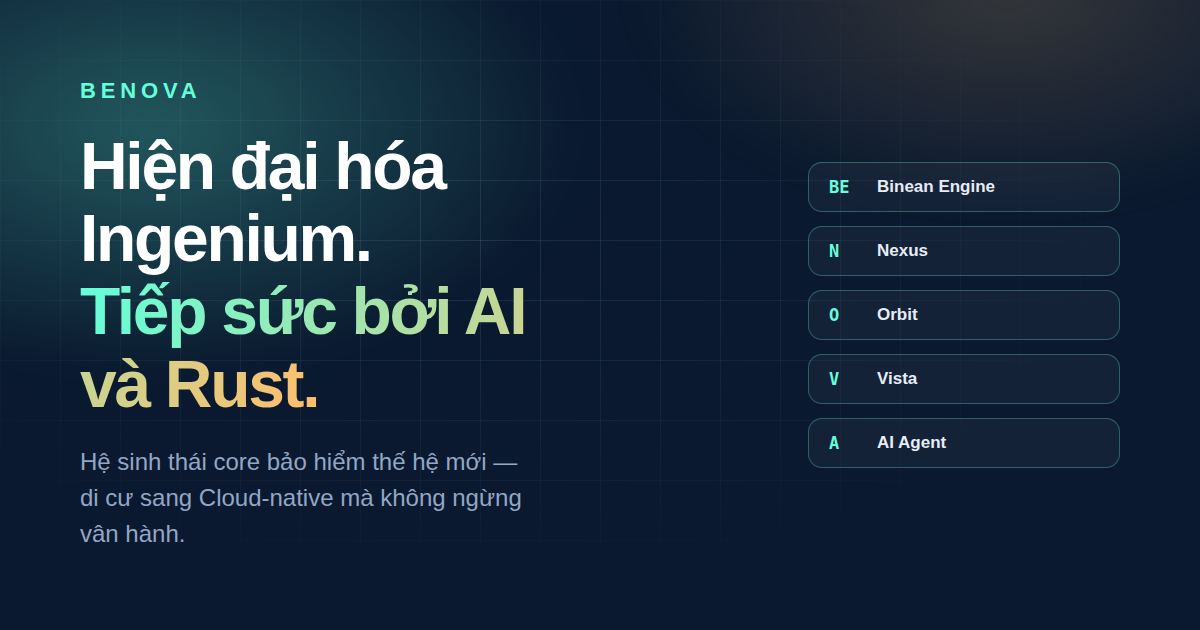
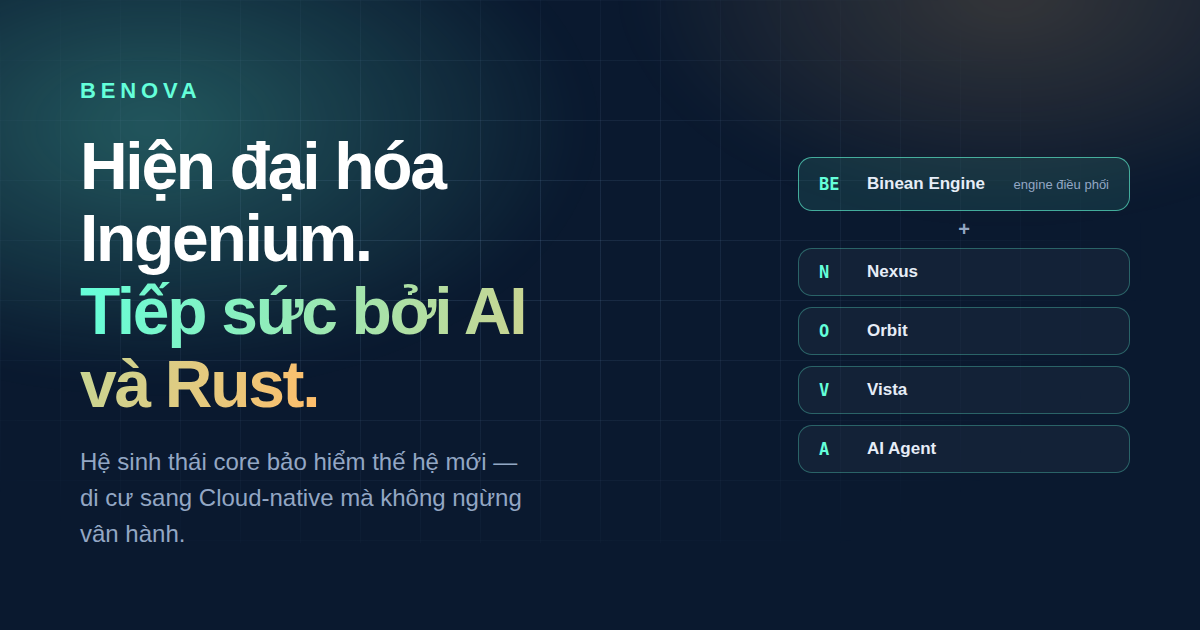
Đọc tên là BE + NOVA thay vì năm chữ ngang hàng
BE dài hai ký tự trong khi N, O, V, A mỗi cái một ký tự, nên cách đọc
"BENOVA = BE + N + O + V + A" khập khiễng. Cách chia đúng là BE + NOVA, và nó
khớp luôn với kiến trúc: Binean Engine không phải anh em với bốn sản phẩm kia
mà là bộ khung chúng chạy trên. Bố cục trang vốn đã vẽ như vậy (một thẻ lớn,
bốn thẻ nhỏ) nhưng chữ lại nói khác.

- Tiêu đề hệ sinh thái: "Năm thành phần, một nền tảng" -> "Một engine, bốn
  sản phẩm"; phần dẫn giải thích BE + NOVA.
- Hình quỹ đạo hero: BE vào lõi kèm tên Binean Engine, bốn vệ tinh N/O/V/A
  quay quanh — hình giờ đọc đúng thành BE + NOVA. Góc vệ tinh tính theo số
  lượng thật thay vì hard-code 72 độ, thêm bớt sản phẩm là tự chia lại.
- Logo header và favicon: bốn chấm thay vì năm.
- Ảnh Open Graph: BE tách riêng, nhấn mạnh, rồi tới bốn sản phẩm.
- Footer blurb viết lại theo cùng cách đọc.
- Sửa căn chữ trong lõi quỹ đạo và giãn vòng nét đứt cho thoáng.

Claude-Session: https://claude.ai/code/session_013JCiBzGJ9WGKPpS1XKVuiH

Changed region(s): [[0.6783, 0.573, 0.925, 0.754], [0.6783, 0.2413, 0.925, 0.3619], [0.6783, 0.3921, 0.925, 0.5429]]

diff --git a/index.html b/index.html
@@ -59,11 +59,10 @@
           <svg viewBox="0 0 32 32" width="28" height="28" focusable="false">
             <circle cx="16" cy="16" r="14" class="mark-ring" />
             <circle cx="16" cy="16" r="5" class="mark-core" />
-            <circle cx="16" cy="2" r="2.6" class="mark-dot" />
-            <circle cx="29.3" cy="11.3" r="2.2" class="mark-dot" />
-            <circle cx="24.2" cy="27" r="2.2" class="mark-dot" />
-            <circle cx="7.8" cy="27" r="2.2" class="mark-dot" />
-            <circle cx="2.7" cy="11.3" r="2.2" class="mark-dot" />
+            <circle cx="16" cy="2.4" r="2.4" class="mark-dot" />
+            <circle cx="29.6" cy="16" r="2.4" class="mark-dot" />
+            <circle cx="16" cy="29.6" r="2.4" class="mark-dot" />
+            <circle cx="2.4" cy="16" r="2.4" class="mark-dot" />
           </svg>
         </span>
         <span class="brand-name">BENOVA</span>
@@ -133,35 +132,29 @@
             <div class="orbit-ring ring-1"></div>
             <div class="orbit-ring ring-2"></div>
             <div class="orbit-core">
-              <span class="core-name">BENOVA</span>
-              <span class="core-sub">core platform</span>
+              <span class="core-name">BE</span>
+              <span class="core-sub">Binean Engine</span>
             </div>
             <ul class="orbit-sats">
-          <li class="sat sat-1" style="--i:0">
-            <span class="sat-chip">
-              <span class="sat-key">BE</span>
-              <span class="sat-meta"><b>Binean Engine</b><i>Framework điều phối, nhân là Spine</i></span>
-            </span>
-          </li>
-          <li class="sat sat-2" style="--i:1">
+          <li class="sat" style="--a:0.00deg">
             <span class="sat-chip">
               <span class="sat-key">N</span>
               <span class="sat-meta"><b>Nexus</b><i>DevOps cho Ingenium</i></span>
             </span>
           </li>
-          <li class="sat sat-3" style="--i:2">
+          <li class="sat" style="--a:90.00deg">
             <span class="sat-chip">
               <span class="sat-key">O</span>
               <span class="sat-meta"><b>Orbit</b><i>Hybrid Service Host</i></span>
             </span>
           </li>
-          <li class="sat sat-4" style="--i:3">
+          <li class="sat" style="--a:180.00deg">
             <span class="sat-chip">
               <span class="sat-key">V</span>
               <span class="sat-meta"><b>Vista</b><i>Flow &amp; Task Management</i></span>
             </span>
           </li>
-          <li class="sat sat-5" style="--i:4">
+          <li class="sat" style="--a:270.00deg">
             <span class="sat-chip">
               <span class="sat-key">A</span>
               <span class="sat-meta"><b>AI Agent</b><i>Autonomous Control Plane</i></span>
@@ -287,8 +280,8 @@
       <div class="shell">
         <div class="section-head reveal">
           <p class="eyebrow">Hệ sinh thái lõi</p>
-          <h2>Năm thành phần, một nền tảng</h2>
-          <p class="lead">BENOVA = BE + N + O + V + A. Mỗi thành phần giải quyết một tầng của bài toán hiện đại hóa và có thể triển khai độc lập, theo thứ tự phù hợp với bạn.</p>
+          <h2>Một engine, bốn sản phẩm</h2>
+          <p class="lead">BENOVA = BE + NOVA. BE là Binean Engine — bộ khung điều phối mà mọi thứ chạy trên đó. NOVA là bốn sản phẩm giải quyết bốn tầng của bài toán hiện đại hóa: Nexus, Orbit, Vista và AI Agent. Mỗi sản phẩm triển khai được độc lập, theo thứ tự phù hợp với bạn.</p>
         </div>
         <div class="agent-grid">
           <article class="card engine-card reveal">
@@ -469,7 +462,7 @@
     <div class="shell footer-inner">
       <div class="footer-brand">
         <span class="brand-name">BENOVA</span>
-        <p>BENOVA là hệ sinh thái hiện đại hóa core bảo hiểm Ingenium: điều phối bằng Binean Engine, vận hành bằng Nexus, mở core bằng Orbit, trải nghiệm bằng Vista và tăng tốc bằng AI Agent.</p>
+        <p>BENOVA = Binean Engine + NOVA. Một bộ khung điều phối, và bốn sản phẩm hiện đại hóa core bảo hiểm Ingenium chạy trên nó: Nexus, Orbit, Vista, AI Agent.</p>
       </div>
       <nav class="footer-col" aria-label="Sản phẩm">
         <h2>Sản phẩm</h2>

diff --git a/assets/css/style.css b/assets/css/style.css
@@ -483,7 +483,7 @@ ol {
 }
 
 .orbit-ring.ring-2 {
-  inset: 18%;
+  inset: 13%;
   border-style: dashed;
   border-color: color-mix(in srgb, var(--accent) 26%, transparent);
   animation: spin 44s linear infinite reverse;
@@ -492,11 +492,15 @@ ol {
 .orbit-core {
   position: relative;
   z-index: 2;
-  display: grid;
-  place-items: center;
-  width: 42%;
+  display: flex;
+  flex-direction: column;
+  align-items: center;
+  justify-content: center;
+  gap: 4px;
+  width: 46%;
   aspect-ratio: 1;
   border-radius: 50%;
+  padding: 0 6%;
   background: radial-gradient(circle at 32% 28%, var(--bg-raise), var(--bg-alt));
   border: 1px solid var(--border-strong);
   box-shadow: 0 0 0 8px var(--accent-soft), var(--shadow);
@@ -505,17 +509,18 @@ ol {
 
 .core-name {
   font-weight: 800;
-  font-size: clamp(0.95rem, 0.7rem + 0.8vw, 1.3rem);
-  letter-spacing: 0.08em;
+  font-size: clamp(1.15rem, 0.85rem + 1vw, 1.65rem);
+  letter-spacing: 0.1em;
   color: var(--text-strong);
 }
 
 .core-sub {
   font-family: var(--mono);
-  font-size: 0.62rem;
-  letter-spacing: 0.12em;
+  font-size: clamp(0.55rem, 0.45rem + 0.25vw, 0.66rem);
+  letter-spacing: 0.06em;
   color: var(--muted);
-  text-transform: uppercase;
+  text-align: center;
+  line-height: 1.35;
 }
 
 .orbit-sats {
@@ -530,7 +535,7 @@ ol {
   left: 50%;
   width: 0;
   height: 0;
-  transform: rotate(calc(var(--i) * 72deg)) translate(var(--r)) rotate(calc(var(--i) * -72deg));
+  transform: rotate(var(--a)) translate(var(--r)) rotate(calc(-1 * var(--a)));
 }
 
 .sat-chip {
